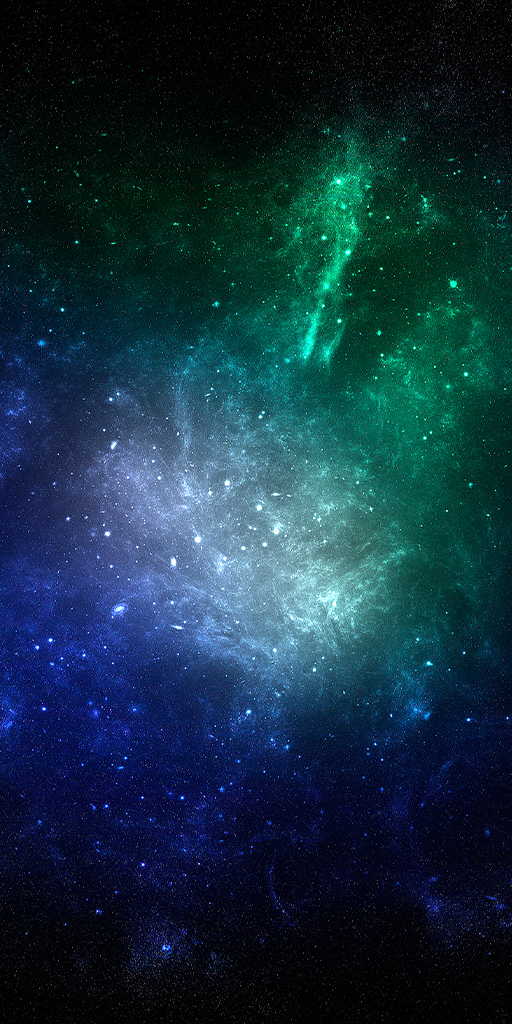
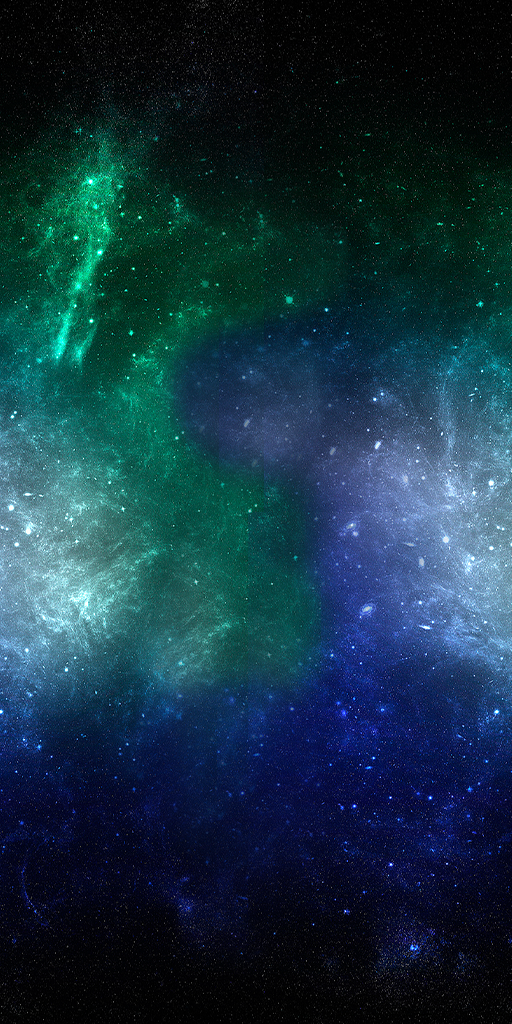
Fixed correct positioning of the object. Fixed memory overload. Change background.png. Ficed backgound: full fill without stretching. Fixed touch point for the center of object.

diff --git a/core/src/ru/geekbrains/screen/MenuScreen.java b/core/src/ru/geekbrains/screen/MenuScreen.java
@@ -17,10 +17,13 @@ public class MenuScreen extends BaseScreen {
     private Vector2 playerPosition;
     private Vector2 touch;
     private Vector2 workVector;
-    private float playerCurrentSpeed = 8f;
+    private float playerCurrentSpeed = 1f;
     private List<Integer> currentButtonKeys = new ArrayList<Integer>();
     private Vector2 playerPoint;
     private Vector2 touchPoint;
+    private static float PLAYER_SHIP_HEIGHT = 12f;
+    int iterator;
+
 
     @Override
     public void show() {
@@ -29,6 +32,8 @@ public class MenuScreen extends BaseScreen {
         playerShip = new Texture("playerShip.png");
         playerPosition = new Vector2(0, 0);
         touch = new Vector2();
+        playerPoint = new Vector2();
+        touchPoint = new Vector2();
         workVector = playerPosition.cpy();
     }
 
@@ -38,8 +43,14 @@ public class MenuScreen extends BaseScreen {
         Gdx.gl.glClearColor(1, 1, 1, 1);
         Gdx.gl.glClear(GL20.GL_COLOR_BUFFER_BIT);
         batch.begin();
-        batch.draw(img, 0, 0);
-        batch.draw(playerShip, playerPosition.x, playerPosition.y, 100, 100);
+        batch.draw(img, (-0.5f)*super.HEIGHT_SIZE, (-0.5f)*super.HEIGHT_SIZE, super.HEIGHT_SIZE, super.HEIGHT_SIZE);
+        iterator = 1;
+        while (iterator * super.HEIGHT_SIZE < super.worldBounds.getWidth()) {
+            batch.draw(img, (-0.5f)*super.HEIGHT_SIZE + super.HEIGHT_SIZE , (-0.5f)*super.HEIGHT_SIZE, super.HEIGHT_SIZE, super.HEIGHT_SIZE);
+            batch.draw(img, (-0.5f)*super.HEIGHT_SIZE - super.HEIGHT_SIZE , (-0.5f)*super.HEIGHT_SIZE, super.HEIGHT_SIZE, super.HEIGHT_SIZE);
+            iterator ++;
+        }
+        batch.draw(playerShip, playerPosition.x, playerPosition.y, PLAYER_SHIP_HEIGHT, PLAYER_SHIP_HEIGHT);
         batch.end();
         currentPlayerPosition();
         playerImpulseMove();
@@ -55,8 +66,10 @@ public class MenuScreen extends BaseScreen {
     @Override
     public boolean touchDown(int screenX, int screenY, int pointer, int button) {
         super.touchDown(screenX, screenY, pointer, button);
-        touch.set(screenX, Gdx.graphics.getHeight() - screenY);
-        workVector = touch.cpy();
+        float worldX = super.worldBounds.getWidth()*(screenX/super.screenBounds.getWidth()) - super.worldBounds.getHalfWidth() - PLAYER_SHIP_HEIGHT/2;
+        float worldY = super.worldBounds.getHeight()*((Gdx.graphics.getHeight() - screenY)/super.screenBounds.getHeight()) - super.worldBounds.getHalfHeight() - PLAYER_SHIP_HEIGHT/2;
+        touch.set(worldX, worldY);
+        workVector.set(touch);
         workVector.sub(playerPosition);
         workVector.nor();
         workVector.scl(playerCurrentSpeed);
@@ -80,12 +93,12 @@ public class MenuScreen extends BaseScreen {
         if (touch.equals(playerPosition)) {
             return;
         }
-        playerPoint = playerPosition.cpy().add(workVector);
-        touchPoint = touch.cpy();
+        playerPoint.set(playerPosition).add(workVector);
+        touchPoint.set(touch);
         float newPointLength = playerPoint.sub(playerPosition).len();
         float touchPointLength = touchPoint.sub(playerPosition).len();
         if (newPointLength >= touchPointLength) {
-            playerPosition = touch.cpy();
+            playerPosition.set(touch);
             return;
         }
         playerPosition.add(workVector);

diff --git a/core/src/ru/geekbrains/base/BaseScreen.java b/core/src/ru/geekbrains/base/BaseScreen.java
@@ -13,14 +13,15 @@ import ru.geekbrains.math.Rect;
 public class BaseScreen implements Screen, InputProcessor {
     protected SpriteBatch batch;
 
-    private Rect screenBounds; // границы области рисования в пикселях
-    private Rect worldBounds; // границы проекции мировых координат
-    private Rect glBounds; // дефолтные границы проекции мир - gl
+    protected Rect screenBounds; // границы области рисования в пикселях
+    protected Rect worldBounds; // границы проекции мировых координат
+    protected Rect glBounds; // дефолтные границы проекции мир - gl
 
     private Matrix4 worldToGl;
     private Matrix3 screenToWorld;
 
-    private static float HEIGHT_SIZE = 100f;
+    protected final float HEIGHT_SIZE = 100f;
+    protected float aspect = 1f;
 
     public BaseScreen() {
         this.screenBounds = new Rect();
@@ -47,7 +48,7 @@ public class BaseScreen implements Screen, InputProcessor {
         screenBounds.setLeft(0);
         screenBounds.setBottom(0);
 
-        float aspect = width / (float) height;
+        aspect = width / (float) height;
         worldBounds.setHeight(HEIGHT_SIZE);
         worldBounds.setWidth(HEIGHT_SIZE*aspect);
         MatrixUtils.calcTransitionMatrix(worldToGl, worldBounds, glBounds);
